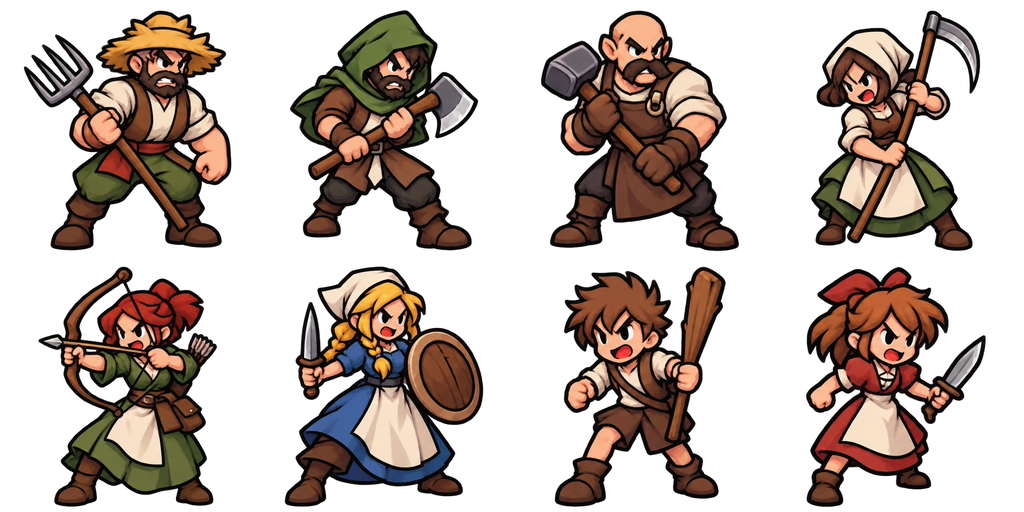
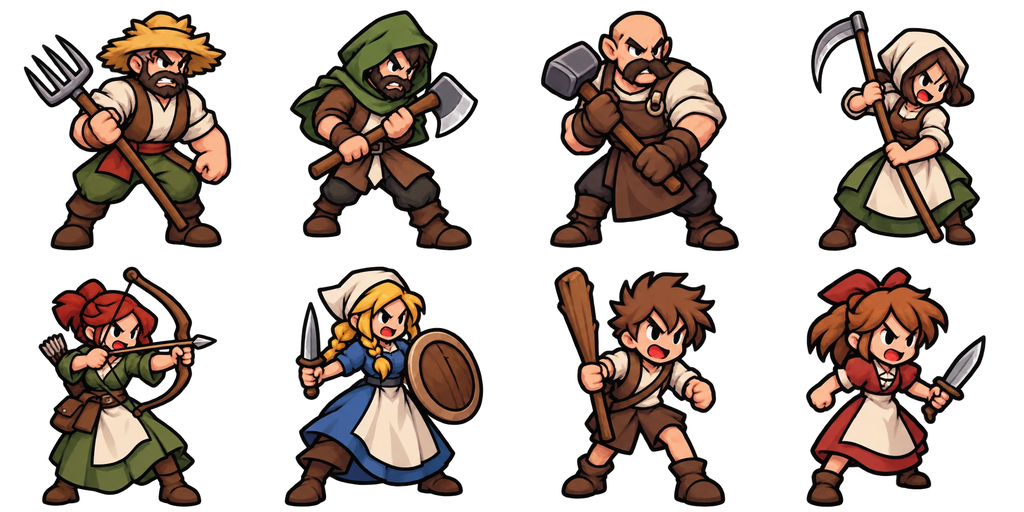
1.77: ritmo das falas, reiniciar partida e ajustes da Fase 1
Falas da Fase 1 com ritmo (no máximo uma por turno, menos as da abertura,
alerta, evolução e vitória); falas da evolução por cima da cena; cena
final da vitória; chegada dos Filhotes sem travadas; camponeses novos,
todos virados para o Filhote; "Reiniciar partida" no menu; e o Encerrar
turno não pisca enquanto houver criatura por agir.

Changed region(s): [[0.0312, 0.5, 0.2188, 1.0], [0.7812, 0.0, 0.9688, 0.5], [0.5312, 0.5312, 0.7188, 1.0]]

diff --git a/index.html b/index.html
@@ -207,6 +207,11 @@ h1 .bt{font-size:14px;padding:1px 7px;margin-left:6px;vertical-align:2px;line-he
 #passar.f1 .f1Cao .cara{display:block;width:88px;height:88px;border-radius:50%;background:#46201a url(img/f1-cao-cara.png) center/cover no-repeat;border:3px solid #ff7a3a;box-shadow:0 0 14px #ff5020aa,0 4px 8px #000a}
 #passar.f1 .f1Cao b{position:absolute;right:90px;top:-6px;font:400 30px "Pirata One",serif;color:#ff8a40;letter-spacing:1px;transform:rotate(-12deg);text-shadow:0 2px 0 #000,0 0 10px #ff5020;white-space:nowrap}
 @keyframes f1Rosna{from{transform:translate(0,0) rotate(-2deg)}to{transform:translate(-2px,1px) rotate(2deg)}}
+#passar.f1 .seq.s3{animation-delay:2.8s}#passar.f1 .seq.s4{animation-delay:4.4s}
+#passar.f1 .grr{margin:10px 0 4px;text-align:center;font:400 34px "Pirata One",serif;color:#ff8a40;letter-spacing:2px;text-shadow:0 2px 0 #000,0 0 14px #ff5020}
+#passar.f1 .grr.seq{animation:f1Seq .4s ease-out 2.8s forwards,f1Rosna .12s ease-in-out 2.8s 14 alternate}
+#passar.f1.vitoria .linha{opacity:0;animation:f1Seq .5s ease-out 5.2s forwards}
+#passar.f1.sobreEvo{top:auto;bottom:4%;transform:translateX(-50%);z-index:6;pointer-events:none}
 #passar.f1.baixo{top:auto;bottom:14px;transform:translateX(-50%)}
 #passar.f1 .seq{opacity:0;animation:f1Seq .6s ease-out forwards}#passar.f1 .seq.s1{animation-delay:.2s}#passar.f1 .seq.s2{animation-delay:1.4s}
 #passar.f1 .fala{display:flex;align-items:center;gap:10px;margin:8px 0 2px}
@@ -926,7 +931,7 @@ function atualizaCam(now){
   const dt=Math.min(.05,(now-(CAM.t||now))/1000);CAM.t=now;
   if(J.intro){camIntro(now);if(J.intro)return;}
   if(Math.abs(CAM.zAlvo-CAM.z)>.002)CAM.z+=(CAM.zAlvo-CAM.z)*(1-Math.exp(-dt*7));else CAM.z=CAM.zAlvo;
-  const movendo=J.un.find(u=>u.anim);
+  const movendo=J.f1&&J.f1.chegando?null:J.un.find(u=>u.anim); // chegada da Fase 1: a câmera segue só o roteiro dela
   if(movendo){CAM.alvo=movendo;CAM.mao=false;}
   const u=CAM.alvo;
   CAM.parado=true;
@@ -1869,6 +1874,7 @@ function novoJogo(op=prefs(),semIntro=false){ // semIntro: a partida de fundo, a
      cristal:m.cristal!=null?{k:m.cristal,v:0,lado:null}:null,cabo:m.cristal!=null||f1?null:{v:0,lado:null},evoFixa:Array.from({length:np},()=>({})),hj:Array.from({length:np},novaHj),
      ...estadoMagiaNovo(ordens,0)}; // mana só pela renda (padrão do jogo)
   m.f.forEach((f,l)=>criaUnidade(ORDENS[ordens[l]].esp,l,...f));
+  J.op=op; // para Reiniciar partida
   if(f1)iniciaF1(m);
   J.tut=!semIntro&&(f1||tutorialPendente())?{n:0}:null;
   zoomInicio(true);
@@ -2308,7 +2314,7 @@ function fundoMenu(cena='inicio'){
 }
 // cada cena tem seu ponto de interesse (torre, pavilhão, monólito): é ele que fica à vista quando a tela corta os lados
 const poeArte=(el,cena)=>{try{el.style.setProperty('--fundoMenu',`url(${fundoMenu(cena)})`);el.style.setProperty('--fundoX',{inicio:'50%',batalha:'46%',carregar:'30%'}[cena]);el.dataset.cena=cena;el.classList.add('arte');}catch(e){}};
-const VERSAO='1.76'; // aumentar 0.01 a cada atualização publicada
+const VERSAO='1.77'; // aumentar 0.01 a cada atualização publicada
 // tela inicial: menu principal com três botões (Jogar, Preparar Batalha, Carregar jogo)
 // inicio = aberta ao abrir o jogo (ou no fim da partida): sem "Voltar ao jogo"
 function abreConfig(inicio=false){
@@ -2422,6 +2428,9 @@ const AVISOS_F1={
   vila:{falas:['Uma vila caiu!','Não sobrou ninguém pra contar a história.']},
   campones:{falas:['Um camponês morreu, rápido! Precisamos de ajuda!']},
   resistiu:{falas:['Ufa, essa foi por pouco!']},
+  caiuUm:{falas:['Um cão derrotado!','Uhulllll! Falta só mais um!']}, // o primeiro dos dois caiu
+  // o segundo caiu: comemoração, um rosnado vindo de longe e a dúvida do soldado (antes da tela de vitória)
+  vitoria:{falas:['Uhuuul! Pode voltar pro inferno, cachorrinho!','Acabou! O vale está a salvo!',{quem:'grr',txt:'GRRRRR...'},{quem:'soldado',txt:'Será mesmo?'}],bt:'Continuar'},
   // uma criatura sua alcança uma torre que ainda não é sua: o soldado chama, o camponês explica
   torre:{falas:[{quem:'soldado',txt:'Rápido, entre na torre para se fortalecer!'},'Lá dentro a criatura se cura e fica protegida!']},
   // tomou uma torre perto de casa (longe da luta): o que ela rende
@@ -2441,13 +2450,13 @@ function tomouTorreF1(k){
   const dE=Math.min(99,...(J.f1.entrada||[]).map(p=>d6c(...DK(k),...p))),dC=cast<0?99:d6c(...DK(k),...DK(cast));
   if(dC<dE)avisoF1('torreMagica');
 }
-function checaTorreF1(){
-  if(!J.f1||J.f1.vistos.torre)return;
+function torreNaFrente(){ // alguma criatura sua alcança, neste turno, uma torre da frente de batalha que não é sua
   const bando=J.un.filter(u=>u.selvagem);
   const cast=J.ter.findIndex((t,k)=>t==='cast'&&J.dono[k]===0),dCast=k=>cast<0?99:d6c(...DK(k),...DK(cast));
   const util=k=>J.ter[k]==='torre'&&J.dono[k]!==0&&bando.some(f=>{const d=d6c(...DK(k),f.c,f.r);return d<=TORRE_PERTO_F1&&d<dCast(k);});
-  if(criaturasDe(0).some(u=>!u.agiu&&[...alcancaveis(u).dest].some(util)))avisoF1('torre');
+  return criaturasDe(0).some(u=>!u.agiu&&[...alcancaveis(u).dest].some(util));
 }
+function checaTorreF1(){if(J.f1&&!J.f1.vistos.torre&&torreNaFrente())avisoF1('torre');}
 // aviso na hora, mesmo na vez do Bando: a vez dele fica parada até o jogador fechar (sem animação, entra na fila)
 async function avisoJaF1(id){
   if(!J.f1||J.f1.vistos[id])return;
@@ -2457,10 +2466,21 @@ async function avisoJaF1(id){
   if(J&&J.f1)J.f1.forcar=false;
 }
 function avisoF1(id){if(!id||!J.f1||J.f1.vistos[id])return;J.f1.vistos[id]=true;J.f1.fila.push(id);}
-function fechaAvisoF1(){if(J&&J.f1){const id=J.f1.fila.shift();if(id==='intro1')voltaMestreF1();if(J.f1.solta){const s=J.f1.solta;J.f1.solta=null;s();}}atualiza();}
+// Ritmo das falas: as que não podem esperar (abertura, alerta do camponês, evolução do Cão, vitória) saem na hora; as
+// outras, no máximo uma por turno e nunca logo depois de outra fala (espera o turno seguinte). A da torre é conferida de
+// novo na hora de aparecer: se já não vale, sai da fila e pode voltar mais tarde.
+const PRIOR_F1=new Set(['intro1','intro2','vitoria','campones','evoluiu']);
+function proxAvisoF1(){
+  const F=J&&J.f1;if(!F||!F.fila.length)return null;
+  if(F.fila[0]==='torre'&&J.vez===0&&!J.ocupado&&!torreNaFrente()){F.fila.shift();F.vistos.torre=false;return proxAvisoF1();}
+  const id=F.fila[0];
+  return PRIOR_F1.has(id)||(F.falouTurno||0)<J.turno?id:null;
+}
+const marcaFalaF1=()=>{if(J&&J.f1)J.f1.falouTurno=J.vez===0?J.turno:J.turno+1;}; // fala na vez do Bando conta para o seu próximo turno
+function fechaAvisoF1(){if(J&&J.f1){const id=J.f1.fila.shift();marcaFalaF1();if(id==='intro1')voltaMestreF1();if(J.f1.solta){const s=J.f1.solta;J.f1.solta=null;s();}}atualiza();}
 // dica do que fazer agora (topo da ficha no PC, faixa sobre o mapa no celular), quando nada está selecionado
 function dicaF1(){
-  if(J.f1.fila.length)return '';
+  if(proxAvisoF1())return '';
   const v=TOQUE()?'Toque':'Clique';
   const minhas=criaturasDe(0).filter(u=>!u.agiu);
   if(minhas.some(u=>{const A=alcancaveis(u);return [...A.dest].some(k=>{const [c,r]=DK(k);return J.un.some(e=>e.selvagem&&d6c(c,r,e.c,e.r)<=ESP[u.esp].alc);});}))
@@ -2474,27 +2494,29 @@ function dicaF1(){
 // do outro; rosnam, e a câmera volta para o seu mestre. Só então aparece o aviso de abertura (que espera J.ocupado)
 async function chegadaF1(){
   const jogo=J,fs=J.un.filter(u=>u.selvagem);if(!fs.length||!VEL||document.hidden)return;
-  J.ocupado=true;
-  // câmera bem de perto, em um Filhote de cada vez: mostra um chegando, depois vai até o outro
-  // (o zoom volta ao normal quando ela viaja até o mestre)
+  J.ocupado=true;J.f1.chegando=true;
+  // câmera bem de perto: abre na entrada do primeiro Filhote; quando ele chega e rosna, desliza numa passada só
+  // até enquadrar os dois, enquanto o segundo já vem correndo (o zoom volta ao normal quando ela viaja até o mestre)
   const cima=J.f1.entra==='cima';
   const ponto=f=>{const [x,y]=centro(f.c,f.r);return [x-(cima?0:W*1.5),y+(cima?R*3:0)];}; // em pé: um pouco abaixo da borda
   const fora=f=>{const [x,y]=centro(f.c,f.r);return cima?{x0:x,y0:y-R*9}:{x0:x+R*9,y0:y};}; // entram de fora do mapa
   const z=Math.min(zBase()*2.4,Math.max(CAM.zPref*1.5,zBase()*1.6));
-  {const [mx,my]=ponto(fs[0]);CAM.z=CAM.zAlvo=z;CAM.enq=true;CAM.x=mx;CAM.y=my;CAM.mao=false;}
+  const mira=([x,y])=>{CAM.alvo={fixo:true,px:x,py:y};CAM.centrar=true;CAM.mao=false;};
+  {const [mx,my]=ponto(fs[0]);CAM.z=CAM.zAlvo=z;CAM.enq=true;CAM.x=mx;CAM.y=my;limitaCam();mira([mx,my]);}
   for(const f of fs)f.anim={...fora(f),t0:performance.now(),dur:1e9}; // esperando fora do mapa
-  for(const [i,f] of fs.entries()){
-    const [mx,my]=ponto(f);CAM.alvo={fixo:true,px:mx,py:my};CAM.centrar=true;limitaCam();atualiza();
-    await dorme(i?900:700);if(J!==jogo)return; // a câmera viaja até a entrada deste Filhote
-    f.anim={...fora(f),t0:performance.now(),dur:1300};
-    await dorme(1400);if(J!==jogo)return;
-    f.anim=null;flutua(f,'Grrrr!','#ff8a50');
-    await dorme(900);if(J!==jogo)return;
-  }
-  // os dois à vista para o alarme do camponês
-  {const xs=fs.map(ponto);CAM.alvo={fixo:true,px:xs.reduce((a,p)=>a+p[0],0)/xs.length,py:xs.reduce((a,p)=>a+p[1],0)/xs.length};CAM.centrar=true;}
-  await dorme(600);if(J!==jogo)return;
-  J.ocupado=false;atualiza(); // o camponês dá o alarme (intro1); ao fechar, a câmera viaja até o mestre
+  atualiza();await dorme(600);if(J!==jogo)return;
+  const [a,...outros]=fs;
+  a.anim={...fora(a),t0:performance.now(),dur:1300};
+  await dorme(1350);if(J!==jogo)return;
+  a.anim=null;flutua(a,'Grrrr!','#ff8a50');
+  await dorme(700);if(J!==jogo)return;
+  // uma passada só: a câmera vai para o meio dos dois enquanto o(s) outro(s) chega(m)
+  const ps=fs.map(ponto);mira([ps.reduce((s,p)=>s+p[0],0)/ps.length,ps.reduce((s,p)=>s+p[1],0)/ps.length]);
+  for(const f of outros)f.anim={...fora(f),t0:performance.now(),dur:1500};
+  await dorme(1550);if(J!==jogo)return;
+  for(const f of outros){f.anim=null;flutua(f,'Grrrr!','#ff8a50');}
+  await dorme(1100);if(J!==jogo)return;
+  J.f1.chegando=false;J.ocupado=false;atualiza(); // o camponês dá o alarme (intro1); ao fechar, a câmera viaja até o mestre
 }
 // depois do alarme do camponês: a câmera viaja até o seu mestre e um soldado pede ajuda (intro2)
 async function voltaMestreF1(){
@@ -2554,7 +2576,7 @@ async function agirSelvagem(u){
 // os 8 camponeses da tela de batalha (folha 4×2, figuras de pé na base; olha = para onde a figura está virada)
 // figurinhas de quem fala nos avisos: tiras de 8 rostos (camponeses e soldados)
 const ROSTOS_F1={campones:{img:'img/f1-rostos.png',n:8},soldado:{img:'img/f1-soldados.png',n:8}};
-const CAMPONESES={img:'img/f1-camponeses.png',olha:[-1,1,-1,-1,-1,1,-1,1]};
+const CAMPONESES={img:'img/f1-camponeses.png?v=2',olha:[1,1,1,1,1,1,1,1]}; // a folha nova tem todos virados para a direita
 // um camponês sai para defender a casa: uma troca de golpes de verdade (o Filhote leva uns arranhões). Com sorte
 // (o Filhote erra golpes), o camponês aguenta e a casa fica de pé por mais um turno: na média do dia e da noite,
 // ~28% contra o Filhote e ~22% contra o Cão Infernal (o Fogo erra mais à noite). Devolve true se o camponês caiu.
@@ -3402,7 +3424,7 @@ function morre(u,por){
   log(`${nome(u)} foi derrotado.`);
   if(J.sel===u)desseleciona();
   if(ESP[u.esp].mestre)eliminar(u.lado,null,'mestre');
-  else if(J.f1&&u.selvagem&&!J.un.some(x=>x.selvagem)&&!J.fim)fimDeJogo(0,'f1'); // Fase 1: o Bando caiu
+  else if(J.f1&&u.selvagem&&!J.fim){if(!J.un.some(x=>x.selvagem))fimDeJogo(0,'f1');else avisoF1('caiuUm');} // Fase 1: o Bando caiu (ou só um dos dois)
 }
 // um lado perde (mestre derrotado ou castelo cercado). No 1x1 a partida acaba; no 1x1x1 o lado sai:
 // o exército dele se desfaz, as construções ficam sem dono, e vence o último mestre de pé.
@@ -3454,7 +3476,9 @@ function fimDeJogo(v,motivo='mestre',por=null){
   const jogo=J;
   const mostra=()=>{
     if(J!==jogo)return; // um novo jogo já começou
-    if(J.f1){mostraFimF1(v,motivo);return;}
+    if(J.f1){ // vitória: antes das estrelas, a cena das falas (se der para animar)
+      if(v===0&&VEL&&!document.hidden&&!J.f1.vistos.vitoria){avisoJaF1('vitoria').then(()=>{if(J===jogo)mostraFimF1(v,motivo);});return;}
+      mostraFimF1(v,motivo);return;}
     {const b=document.getElementById('fimBt');b.textContent='Jogar de novo';b.onclick=()=>abreConfig();document.getElementById('fimBt2').style.display='none';}
     document.getElementById('fimTxt').textContent=v===0?'Vitória!':'Você perdeu';
     document.getElementById('fimPorque').innerHTML=v===0?'':porqueDerrota(v,motivo,por);
@@ -4005,7 +4029,7 @@ async function clique(c,r){
   if(J.vez!==0||J.ocupado||J.fim)return;
   const k=K(c,r),alvo=unidadeEm(c,r),s=J.sel;
   // a ficha "presa" de um inimigo (ou de criatura sua que já agiu) solta a cada clique; clicar nela de novo só solta
-  if(J.f1&&J.f1.fila.length&&!J.intro){if(!J.f1.fila[0].startsWith('intro')){J.f1.fila.shift();atualiza();}return;} // Fase 1: com um aviso aberto, o clique no mapa só o fecha (a abertura pede o botão)
+  if(J.f1&&!J.intro&&proxAvisoF1()){if(!proxAvisoF1().startsWith('intro')){J.f1.fila.shift();marcaFalaF1();atualiza();}return;} // Fase 1: com um aviso aberto, o clique no mapa só o fecha (a abertura pede o botão)
   if(J.avisoEvo){J.avisoEvo=false;} // clicar no mapa com o aviso de evolução aberto vale como "Agora não"
   const inspAntes=J.insp,menuAntes=J.menuAlvo;J.insp=null;J.menuAlvo=null;
   if(J.mg||J.fz){await cliqueMagia(k);return;}
@@ -4136,7 +4160,7 @@ function escolherInvocacao(esp){
 // botão de baixo: na sua vez encerra o turno; na vez dos rivais, pula as animações até voltar a sua vez
 function cliqueFim(){if(J.vez===0)fimTurno();else pularRival();}
 // Jogador parado na própria vez (nada muda no jogo: ninguém anda, ataca, invoca ou gasta mana):
-// o Encerrar turno vai chamando atenção em 3 níveis (só quando já não dá para invocar). No 1º turno começa mais cedo (quem ainda não achou o botão);
+// o Encerrar turno vai chamando atenção em 3 níveis (só quando já não dá para invocar nem há criatura sua por agir). No 1º turno começa mais cedo (quem ainda não achou o botão);
 // com tudo já feito no turno, também. Telas por cima (ajuda, menus, cenas) pausam a contagem.
 const OCIO_SEG={primeiro:[10,20,35],normal:[30,60,90]};
 let ocio={seg:0,assin:'',nivel:0};
@@ -4153,6 +4177,7 @@ setInterval(()=>{
   if(a!==ocio.assin){ocio.assin=a;ocio.seg=0;poeOcio(0);return;}
   if(document.hidden||telaPorCima())return; // pausa, sem zerar
   if(mestreDe(0)&&podeInvocarAlgo()){ocio.seg=0;poeOcio(0);return;} // ainda dá para pôr monstros em jogo: o botão não chama atenção
+  if(criaturasPendentes().length){ocio.seg=0;poeOcio(0);return;} // ainda há criatura sua que pode andar ou atacar: o botão não pisca
   ocio.seg++;
   const lim=OCIO_SEG[J.turno<=1?'primeiro':'normal'].map(t=>turnoEsgotado()?t/2:t);
   poeOcio(ocio.seg>=lim[2]?3:ocio.seg>=lim[1]?2:ocio.seg>=lim[0]?1:0);
@@ -4805,10 +4830,14 @@ async function cenaEvolucao(u,de,para,espPara){
   for(let i=0;i<40;i++)E.part.push({a:Math.random()*Math.PI*2,v:120+Math.random()*260,t0:performance.now(),r:2+Math.random()*4});
   await tweenC(450,t=>{E.flash=1-t;});
   await tweenC(700,t=>{E.branco=1-t;E.raios=1-t*.7;});           // a cor volta, já na forma nova
+  // Fase 1: o Filhote do Bando virou Cão Infernal: os camponeses reagem por cima da própria cena (sem botão; fecha com ela)
+  const falaEvo=J.f1&&u.selvagem&&!J.f1.vistos.evoluiu;
+  if(falaEvo){J.f1.vistos.evoluiu=true;J.f1.sobreEvo=true;J.f1.fila.unshift('evoluiu');atualiza();}
   // espera o jogador clicar (ou Enter/Espaço/Esc) para sair
   E.aguarda=performance.now();if(VEL)await new Promise(res=>CENA.fechar=res);CENA.fechar=null;CENA.rapido=false; // pulando a vez do rival: não espera
+  if(falaEvo&&J.f1){J.f1.sobreEvo=false;J.f1.fila=J.f1.fila.filter(x=>x!=='evoluiu');marcaFalaF1();}
   await tweenC(280,t=>{if(CENA)CENA.fade=t;});
-  CV_CENA.style.display='none';CENA=null;
+  CV_CENA.style.display='none';CENA=null;atualiza();
 }
 function desenhaEvo(now){
   const g=cg,E=CENA.evo,u=E.u;g.setTransform(2,0,0,2,0,0);g.globalAlpha=1;
@@ -6138,7 +6167,16 @@ function compartNativo(){if(navigator.share)navigator.share({title:'Senhores da 
 function abreAjuda(){fechaMenuJogo();document.getElementById('ajuda').classList.add('aberto');}
 function fechaAjuda(){document.getElementById('ajuda').classList.remove('aberto');}
 function alternaMenuJogo(ev){ev.stopPropagation();document.getElementById('menuJogo').classList.toggle('aberto');}
-function fechaMenuJogo(){document.getElementById('menuJogo').classList.remove('aberto');}
+function fechaMenuJogo(){document.getElementById('menuJogo').classList.remove('aberto');if(J&&J.confReinicio){J.confReinicio=false;atualiza();}}
+// Reiniciar: começa de novo a mesma partida (mesmo modo e mestre; na Fase 1, a Fase 1). Pede um segundo toque para confirmar.
+function reiniciarPartida(ev){
+  ev.stopPropagation();
+  if(!J||J.ocupado||(J.vez!==0&&!J.fim))return;
+  if(!J.confReinicio){J.confReinicio=true;atualiza();return;}
+  const f1=J.f1,op=J.op||{...prefs(),modo:Object.keys(MODOS).find(k=>MODOS[k]===NP())||'1x1'};
+  fechaMenuJogo();fecharSaves();
+  if(f1)jogarFase1();else novoJogo(op);
+}
 addEventListener('click',ev=>{if(!ev.target.closest('#menuJogo'))fechaMenuJogo();});
 let PLACAR_TORRE=null; // ícone de torre do placar (pixel art gerada uma vez)
 function atualiza(){
@@ -6155,7 +6193,8 @@ function atualiza(){
   const c0=cercoContra(0),c1=cercoDe(0); // c0: o rival que mais cerca você (c0.por); c1: o seu cerco mais adiantado (c1.o)
   // menu do jogo (☰): novo jogo, salvar e carregar
   document.getElementById('menuJogo').innerHTML=`
-    <button onclick="abreConfig()">↻ Menu principal</button>
+    <button onclick="abreConfig()">☰ Menu principal</button>
+    <button onclick="reiniciarPartida(event)" ${J.ocupado||J.vez!==0&&!J.fim?'disabled':''}${J.confReinicio?' style="border-color:#ff8a80;color:#ffb0a8"':''}>↻ ${J.confReinicio?'Toque de novo para reiniciar':'Reiniciar partida'}</button>
     <button onclick="fechaMenuJogo();salvarJogo()" ${podeSalvar()?'':'disabled'}>💾 Salvar</button>
     <button onclick="fechaMenuJogo();abrirCarregar()" ${J.ocupado?'disabled':''}>📂 Carregar</button>
     <button onclick="fechaMenuJogo();alternaLog(event)">📜 Registro</button>
@@ -6447,21 +6486,23 @@ function menus(){
   // fim de turno: sem caixa sobre o mapa; quem avisa é o Encerrar turno dourado (veja atualiza).
   // A caixa do meio do mapa serve ao aviso de evolução do começo do turno (espera a abertura e os combates)
   const evoAviso=minha&&J.avisoEvo&&!J.intro&&!CENA&&podeEvoluir(0)&&!J.evo&&!J.mg&&!J.fz&&J.invHex==null&&!J.invocando;
-  const f1Aviso=J.f1&&J.f1.fila.length&&!J.intro&&!CENA&&!J.fim&&(J.f1.forcar||minha&&!J.ocupado); // forcar: aviso na hora, na vez do Bando
+  const idF1=J.f1&&!J.intro?proxAvisoF1():null;
+  const f1Aviso=idF1&&(J.f1.sobreEvo&&idF1==='evoluiu'||!CENA&&(J.f1.forcar||minha&&!J.ocupado&&!J.fim)); // sobreEvo: por cima da tela de evolução // forcar: aviso na hora, na vez do Bando
   if(f1Aviso){
-    const id=J.f1.fila[0],A=AVISOS_F1[id];
+    const id=idF1,A=AVISOS_F1[id];
     let corpo;
     if(A.falas){
       // um rosto diferente para cada fala, sorteado uma vez (o aviso não troca de rosto ao redesenhar)
       const falas=(typeof A.falas==='function'?A.falas():A.falas).map(f=>typeof f==='string'?{quem:'campones',txt:f}:f);
-      const rs=J.f1.rostos[id]||(J.f1.rostos[id]=(()=>{const usados={};return falas.map(f=>{const R=ROSTOS_F1[f.quem],u=usados[f.quem]||(usados[f.quem]=new Set());
+      const rs=J.f1.rostos[id]||(J.f1.rostos[id]=(()=>{const usados={};return falas.map(f=>{if(!ROSTOS_F1[f.quem])return 0;const R=ROSTOS_F1[f.quem],u=usados[f.quem]||(usados[f.quem]=new Set());
         let i;do i=Math.random()*R.n|0;while(u.has(i)&&u.size<R.n);u.add(i);return i;});})());
-      corpo=`${A.tit?`<div class="evoTit">${A.tit}</div>`:''}${falas.map((f,i)=>{const R=ROSTOS_F1[f.quem];
+      corpo=`${A.tit?`<div class="evoTit">${A.tit}</div>`:''}${falas.map((f,i)=>{if(f.quem==='grr')return `<div class="grr seq s${i+1}">${f.txt}</div>`;const R=ROSTOS_F1[f.quem];
         return `<div class="fala seq s${i+1}"><span class="rosto ${f.quem}" style="background-image:url(${R.img});background-position:${rs[i]/(R.n-1)*100}% 0"></span><div class="balao">${f.txt}</div></div>`;}).join('')}`;
     }else corpo=`<div class="evoTit">${A[0]}</div><div class="evoTx">${A[1]}</div>`;
     if(A.cao)corpo+=`<div class="f1Cao" aria-hidden="true"><span class="cara"></span><b>GRRRR!</b></div>`;
-    poeHTML(ps,`${corpo}<div class="linha"><button class="btEvo" onclick="fechaAvisoF1()">${(A.bt||A[2])||'Entendi'}</button></div>`);
-    ps.className='flut evo f1'+(id.startsWith('intro')?' intro':'')+(id==='intro1'?' baixo':'');ps.style.display='block'; // o alarme fica embaixo, para não cobrir os Filhotes
+    const sobre=J.f1.sobreEvo&&id==='evoluiu'; // em cima da cena de evolução: sem botão, o toque vai para a cena
+    poeHTML(ps,`${corpo}${sobre?'':`<div class="linha"><button class="btEvo" onclick="fechaAvisoF1()">${(A.bt||A[2])||'Entendi'}</button></div>`}`);
+    ps.className='flut evo f1'+(id.startsWith('intro')?' intro':'')+(id==='intro1'?' baixo':'')+(id==='vitoria'?' vitoria':'')+(J.f1.sobreEvo&&id==='evoluiu'?' sobreEvo':'');ps.style.display='block'; // o alarme fica embaixo, para não cobrir os Filhotes
   }else if(evoAviso){
     poeHTML(ps,`<div class="evoTit">▲ Evolução disponível</div><div class="evoTx">Sua reserva chegou a ${EVO_CUSTO} MP. Escolha uma criatura para evoluir permanentemente.</div><div class="linha"><button onclick="fechaAvisoEvo()">Agora não</button><button class="btEvo" onclick="avisoEvoluir()">▲ Evoluir</button></div>`);
     ps.className='flut evo';ps.style.display='block';
